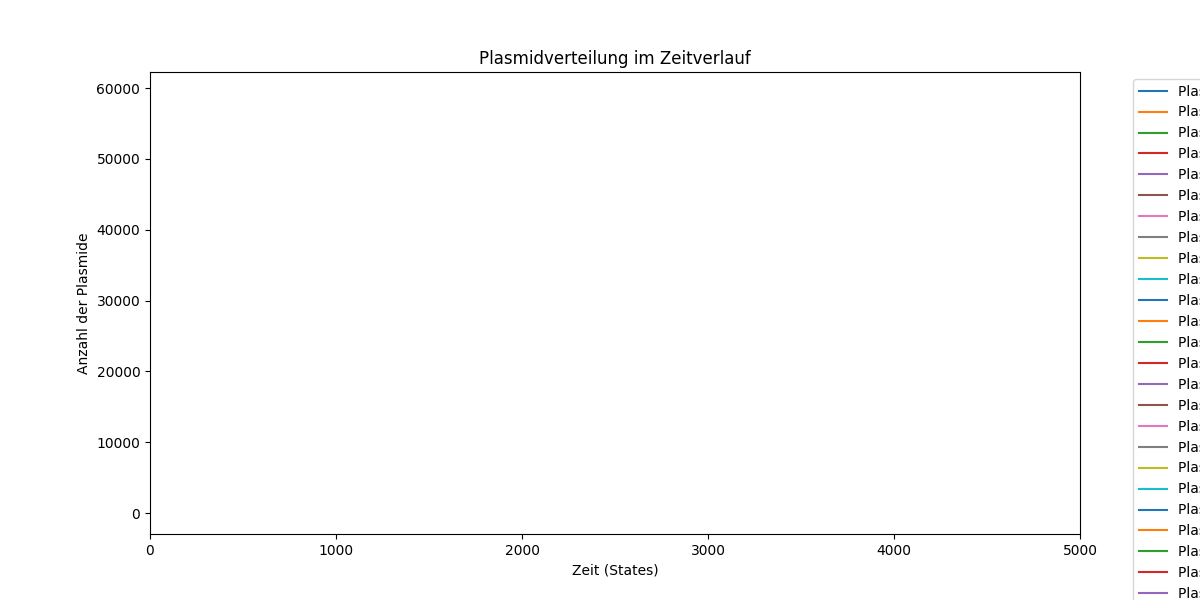
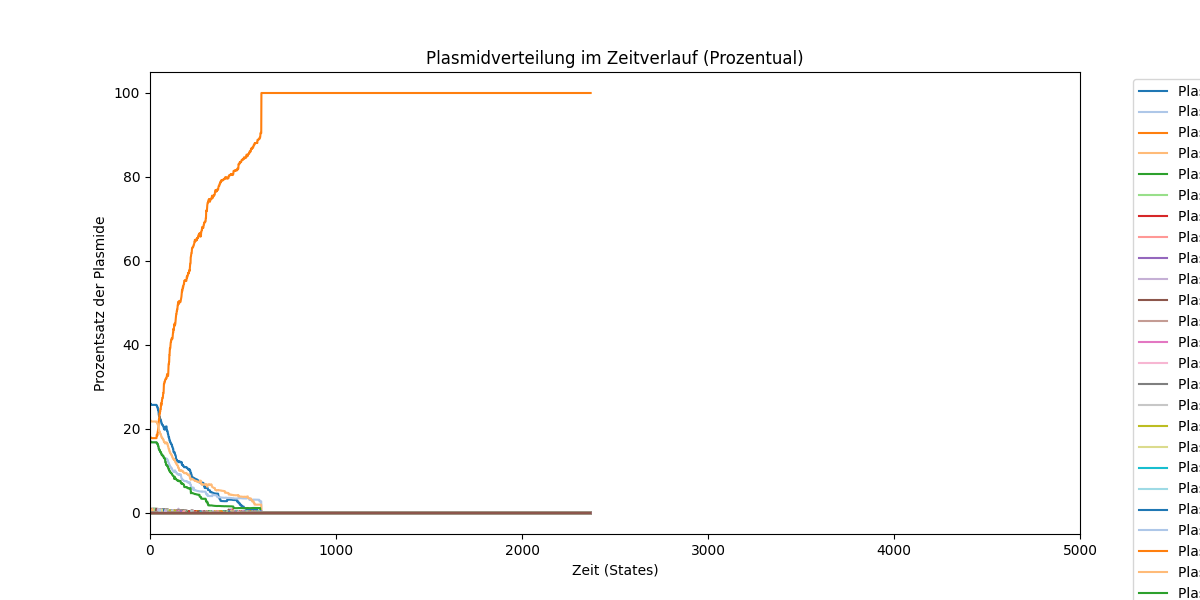
plasmid mutation

diff --git a/experiments/toxic/fast_genome.py b/experiments/toxic/fast_genome.py
@@ -11,6 +11,7 @@ import hashlib
 
 import numpy as np
 import os
+from collections import Counter
 
 
 
@@ -77,38 +78,36 @@ def receptor_spec_statistics(world: extract.World) -> list[dict]:
 
     return data
 
+
 def plasmid_data_statistics(world: extract.World) -> list[dict]:
-    """Count how many times each plasmid (by number) appears per state."""
-    print("Extracting plasmid data per state...")
+    """Count how many times each plasmid (by number) appears per state. Optimized for speed."""
+    print("Extracting plasmid data per state (fast)...")
     world.end = False
     world.counter = 0
-    states = []
+    data = []
+    state_idx = 0
+    get_state = world.get_state
+    max_plasmid_value = 5
     while True:
-        state = world.get_state()
+        state = get_state()
         if state is None:
             break
-        states.append(state)
-
-    data = []
-    for i, state in enumerate(states):
-        plasmid_counter = {}
-        for entity in state.entities:
-            plasmids = entity.genome.get_plasmids()
-            for plasmid in plasmids:
-                # Ensure plasmid is treated as an integer (number)
-                plasmid_num = int(plasmid)
-                plasmid_counter[plasmid_num] = plasmid_counter.get(plasmid_num, 0) + 1
-        for plasmid_num, count in plasmid_counter.items():
-            data.append({
-                'state': i,
-                'plasmid': plasmid_num,
-                'count': count
-            })
-
+        entities = state.entities
+        counter = Counter()
+        for entity in entities:
+            # Only count plasmids with value < n
+            counter.update(
+                plasmid_num for plasmid_num in map(int, entity.genome.get_plasmids()) if plasmid_num < max_plasmid_value
+            )
+        data.extend(
+            {'state': state_idx, 'plasmid': plasmid_num, 'count': count}
+            for plasmid_num, count in counter.items()
+        )
+        state_idx += 1
     return data
 
 def plot_plasmid_statistics(data: list[dict], filename: str):
-    """Plot plasmid counts over time (plasmids are numbered 0..n)."""
+    """Plot plasmid counts as percentage of total population over time."""
     if not data:
         print("No data to plot.")
         return
@@ -119,24 +118,28 @@ def plot_plasmid_statistics(data: list[dict], filename: str):
     pivot = df.pivot(index='state', columns='plasmid', values='count').fillna(0)
     pivot = pivot.sort_index(axis=1)  # Sort columns by plasmid number
 
+    # Calculate total plasmids per state (sum across all plasmids)
+    total_per_state = pivot.sum(axis=1)
+    # Calculate percentage for each plasmid per state
+    pivot_percent = pivot.div(total_per_state, axis=0) * 100
+
     plt.figure(figsize=(12, 6))
     colors = plt.cm.tab20.colors
-    for idx, plasmid in enumerate(pivot.columns):
+    for idx, plasmid in enumerate(pivot_percent.columns):
         plt.plot(
-            pivot.index,
-            pivot[plasmid],
+            pivot_percent.index,
+            pivot_percent[plasmid],
             label=f"Plasmid {plasmid}",
             color=colors[idx % len(colors)]
         )
 
     plt.xlabel("Zeit (States)")
-    plt.ylabel("Anzahl der Plasmide")
-    plt.title("Plasmidverteilung im Zeitverlauf")
+    plt.ylabel("Prozentsatz der Plasmide")
+    plt.title("Plasmidverteilung im Zeitverlauf (Prozentual)")
     plt.xlim(0, 5000)
     plt.legend(bbox_to_anchor=(1.05, 1), loc='upper left')
     plt.tight_layout()
-    plt.savefig(filename)
-    plt.close()
+    plt.show()
 
 
 def bytes_similarity(a: bytes, b: bytes) -> float:
@@ -410,6 +413,7 @@ def plot_different_species_alive(species_alive: list[np.ndarray], n_entities: li
 if __name__ == "__main__":
 
     root = tk.Tk()
+    root.withdraw()  # Hide the root window
     file_path = filedialog.askopenfilename(title="Wähle eine Simulationsdatei aus", filetypes=[("Alle Dateien", "*.*")])
     if not file_path:
         print("Keine Datei ausgewählt. Beende.")
@@ -418,9 +422,9 @@ if __name__ == "__main__":
     world = extract.World(file_path)
     
     # Example usage:
-    genome_data = genome_statistics(world, ignore_threshold=1, similarity_threshold=0.95)
-    stackplot_genome_statistics(genome_data, "genome_stackplot.png")
-    lineplot_genome_statistics(genome_data, "genome_lineplot.png")
+    #genome_data = genome_statistics(world, ignore_threshold=1, similarity_threshold=0.95)
+    #stackplot_genome_statistics(genome_data, "genome_stackplot.png")
+    #lineplot_genome_statistics(genome_data, "genome_lineplot.png")
 
 
     plasmid_data = plasmid_data_statistics(world)

diff --git a/experiments/toxic/extract.py b/experiments/toxic/extract.py
@@ -1,5 +1,7 @@
 import struct
 
+USIZE = True
+
 def find_state_adress(bytes, n, header_size, store_capacity):
     address_counter= header_size
     c = 0
@@ -146,7 +148,8 @@ class Entity:
 
 
         if parent.genome_save:
-            self.genome = Genome(bytes, index, parent.world.receptors_per_entity, parent.world.ligands_per_entity, parent.world.toxins_active)
+            self.genome = Genome(bytes, index, parent.world.receptors_per_entity,
+                                  parent.world.ligands_per_entity, parent.world.toxins_active)
             index += self.genome.size
         
 
@@ -178,21 +181,29 @@ class Genome:
 
         index += receptors_n * 8
 
+        
+        self.raw_bytes = bytes[old:index]
+
+
         if toxins_active:
-            n_plasmids = struct.unpack('I', bytes[index:index + 4])[0]
-            index +=4
             self.plasmids = []
+            if USIZE:
+                n_plasmids = struct.unpack('Q', bytes[index:index + 8])[0]
+                index +=8
+            else:
+                n_plasmids = struct.unpack('I', bytes[index:index + 4])[0]
+                index +=4
             for j in range(n_plasmids):
+
                 plasmid = struct.unpack('H', bytes[index + j *2:index + j *2 +2])[0]
                 self.plasmids.append(plasmid)
-            index -= 4
+                index += 2
+            
         else:
             self.plasmids = []
 
+        self.size = 4 + (receptors_n * 8) + (ligand_n * 2) + (  (len(self.plasmids)*2) if toxins_active else 0) + (8 if USIZE else 4)
 
-        self.size = 4 + (receptors_n * 8) + (ligand_n * 2) + ( (4 + len(self.plasmids)*2) if toxins_active else 0) 
-
-        self.raw_bytes = bytes[old:index]
         
     def get_plasmids(self):
         return self.plasmids

diff --git a/experiments/mutation/extract.py b/experiments/mutation/extract.py
@@ -146,7 +146,8 @@ class Entity:
 
 
         if parent.genome_save:
-            self.genome = Genome(bytes, index, parent.world.receptors_per_entity, parent.world.ligands_per_entity, parent.world.toxins_active)
+            self.genome = Genome(bytes, index, parent.world.receptors_per_entity,
+                                  parent.world.ligands_per_entity, parent.world.toxins_active)
             index += self.genome.size
         
 
@@ -178,21 +179,28 @@ class Genome:
 
         index += receptors_n * 8
 
+        
+        self.raw_bytes = bytes[old:index]
+
+
         if toxins_active:
+            c = 0
+            self.plasmids = []
             n_plasmids = struct.unpack('I', bytes[index:index + 4])[0]
             index +=4
-            self.plasmids = []
+            c +=4
             for j in range(n_plasmids):
+
                 plasmid = struct.unpack('H', bytes[index + j *2:index + j *2 +2])[0]
                 self.plasmids.append(plasmid)
-            index -= 4
+                index += 2
+                c +=2
+            
         else:
             self.plasmids = []
 
+        self.size = 4 + (receptors_n * 8) + (ligand_n * 2) + ( 4 + (len(self.plasmids)*2) if toxins_active else 0)
 
-        self.size = 4 + (receptors_n * 8) + (ligand_n * 2) + ( (4 + len(self.plasmids)*2) if toxins_active else 0)
-
-        self.raw_bytes = bytes[old:index]
         
     def get_plasmids(self):
         return self.plasmids

diff --git a/scripts/extract.py b/scripts/extract.py
@@ -146,7 +146,8 @@ class Entity:
 
 
         if parent.genome_save:
-            self.genome = Genome(bytes, index, parent.world.receptors_per_entity, parent.world.ligands_per_entity, parent.world.toxins_active)
+            self.genome = Genome(bytes, index, parent.world.receptors_per_entity,
+                                  parent.world.ligands_per_entity, parent.world.toxins_active)
             index += self.genome.size
         
 
@@ -178,21 +179,28 @@ class Genome:
 
         index += receptors_n * 8
 
+        
+        self.raw_bytes = bytes[old:index]
+
+
         if toxins_active:
+            c = 0
+            self.plasmids = []
             n_plasmids = struct.unpack('I', bytes[index:index + 4])[0]
             index +=4
-            self.plasmids = []
+            c +=4
             for j in range(n_plasmids):
+
                 plasmid = struct.unpack('H', bytes[index + j *2:index + j *2 +2])[0]
                 self.plasmids.append(plasmid)
-            index -= 4
+                index += 2
+                c +=2
+            
         else:
             self.plasmids = []
 
+        self.size = 4 + (receptors_n * 8) + (ligand_n * 2) + ( 4 + (len(self.plasmids)*2) if toxins_active else 0)
 
-        self.size = 4 + (receptors_n * 8) + (ligand_n * 2) + ( (4 + len(self.plasmids)*2) if toxins_active else 0)
-
-        self.raw_bytes = bytes[old:index]
         
     def get_plasmids(self):
         return self.plasmids

diff --git a/src/world/serialize.rs b/src/world/serialize.rs
@@ -294,12 +294,11 @@ impl Save for crate::objects::Genome{
 
         if self.toxins_active {
             // add plasmids
-            buffer.extend(&self.plasmids.len().to_le_bytes()); // number of plasmids 4 bytes
+            buffer.extend(&(self.plasmids.len() as u32).to_le_bytes()); // number of plasmids 4 bytes
             for plasmid in self.plasmids.iter() {
                 buffer.extend(&plasmid.to_le_bytes()); // plasmid genes 2 bytes each
             }
         } 
-
         Ok(buffer)
     }
 

diff --git a/examples/toxic.rs b/examples/toxic.rs
@@ -7,9 +7,9 @@ fn main() {
 
     let mut world = World::new(settings);
 
-    let name = "1";
+    let name = "3";
 
-    world.save(Some(&format!("experiments/toxic/cache/{}", name)), true).expect("Failed to save world");
+    world.save(Some(&format!("experiments/toxic/cache/{}.bin", name)), true).expect("Failed to save world");
 
     world.cuda_initialize().expect("Failed to initialize CUDA");
 

diff --git a/src/objects/genome.rs b/src/objects/genome.rs
@@ -97,7 +97,14 @@ impl Genome {
                 *receptor = mutate_rec;
             }
         }
+        
 
+        // mutate plasmids
+        for plasmid in new_genome.plasmids.iter_mut() {
+            if rng.random_bool(settings.mutation_rate()) {
+                *plasmid = random_plasmid_gene(settings);
+            }
+        }
 
 
         new_genome

diff --git a/src/objects/entity.rs b/src/objects/entity.rs
@@ -349,7 +349,7 @@ impl Entity {
         let plasmid = if self.genome.plasmids.is_empty() {
             return None; // no plasmids to transfer
         } else {
-            self.genome.plasmids[0] // for now, just transfer the first plasmid
+            self.genome.plasmids[0] 
         };
         Some(PlasmidPackage {
             plasmid,
